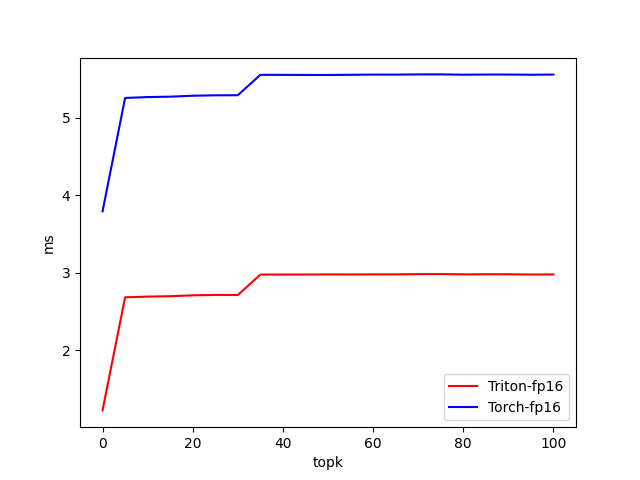
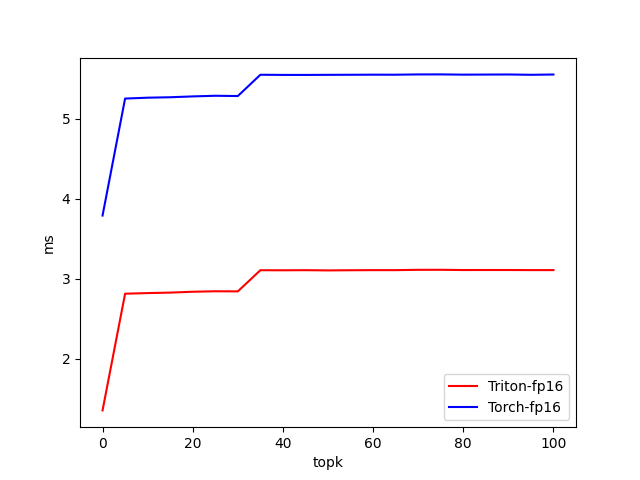
fix q_downsample numerical error

diff --git a/predictor_kernel/pooling_matmul.py b/predictor_kernel/pooling_matmul.py
@@ -164,8 +164,9 @@ def qk_downsampling(Q, K, Q_down, K_down, n_rep, #
         order=(0, 1),
     )
     q = tl.load(Q_block_ptr)
-    q = tl.sum(q, 0)[None, :] / BLOCK_M
-    tl.store(Q_down_block_ptr, q.to(Q_down.type.element_ty))
+    q = q.to(tl.float32)
+    q = (tl.sum(q, 0)[None, :] / BLOCK_M).to(tl.float16)
+    tl.store(Q_down_block_ptr, q)
 
     # K Dowmsample
     if off_num == 0:
@@ -198,6 +199,7 @@ class mask_predictor_kernel(torch.autograd.Function):
             waves_per_eu = 3 if HEAD_DIM <= 64 else 2
             extra_kern_args = {"waves_per_eu": waves_per_eu, "allow_flush_denorm": True}
 
+        # Numerical error in the kernel if q dtype is float16
         grid = lambda args: (triton.cdiv(N_CTX, args["BLOCK_M"]), BATCH * N_HEADS, 1)
         qk_downsampling[grid](
             q, k, q_down, k_down, n_rep,
@@ -261,9 +263,6 @@ def test_op(Z, H, N_CTX, HEAD_DIM, HIDDEN_DIM, dtype=torch.float16):
     q = q.transpose(-1, -2).reshape(-1, HEAD_DIM, N_CTX)
     q = torch.avg_pool1d(q, kernel_size=64, stride=64, ceil_mode=True)
     q = q.transpose(-1, -2).reshape(Z, H, -1, HEAD_DIM)
-
-    # TODO: error is from avg_pool1d
-    # assert torch.allclose(q, q_, atol=1e-5, rtol=0)
 
     k = k.transpose(-1, -2).reshape(-1, HEAD_DIM, N_CTX)
     k_max = torch.max_pool1d(k, kernel_size=64, stride=64, ceil_mode=True)
@@ -336,4 +335,4 @@ def bench_flash_attention(BATCH, H, N_CTX, HEAD_DIM, HIDDEN_DIM, topk, mode, pro
 if __name__ == "__main__":
     # only works on post-Ampere GPUs right now
     bench_flash_attention.run(save_path="./mask_predictor/", print_data=True)
-    # pytest.main([__file__])
+    pytest.main([__file__])
